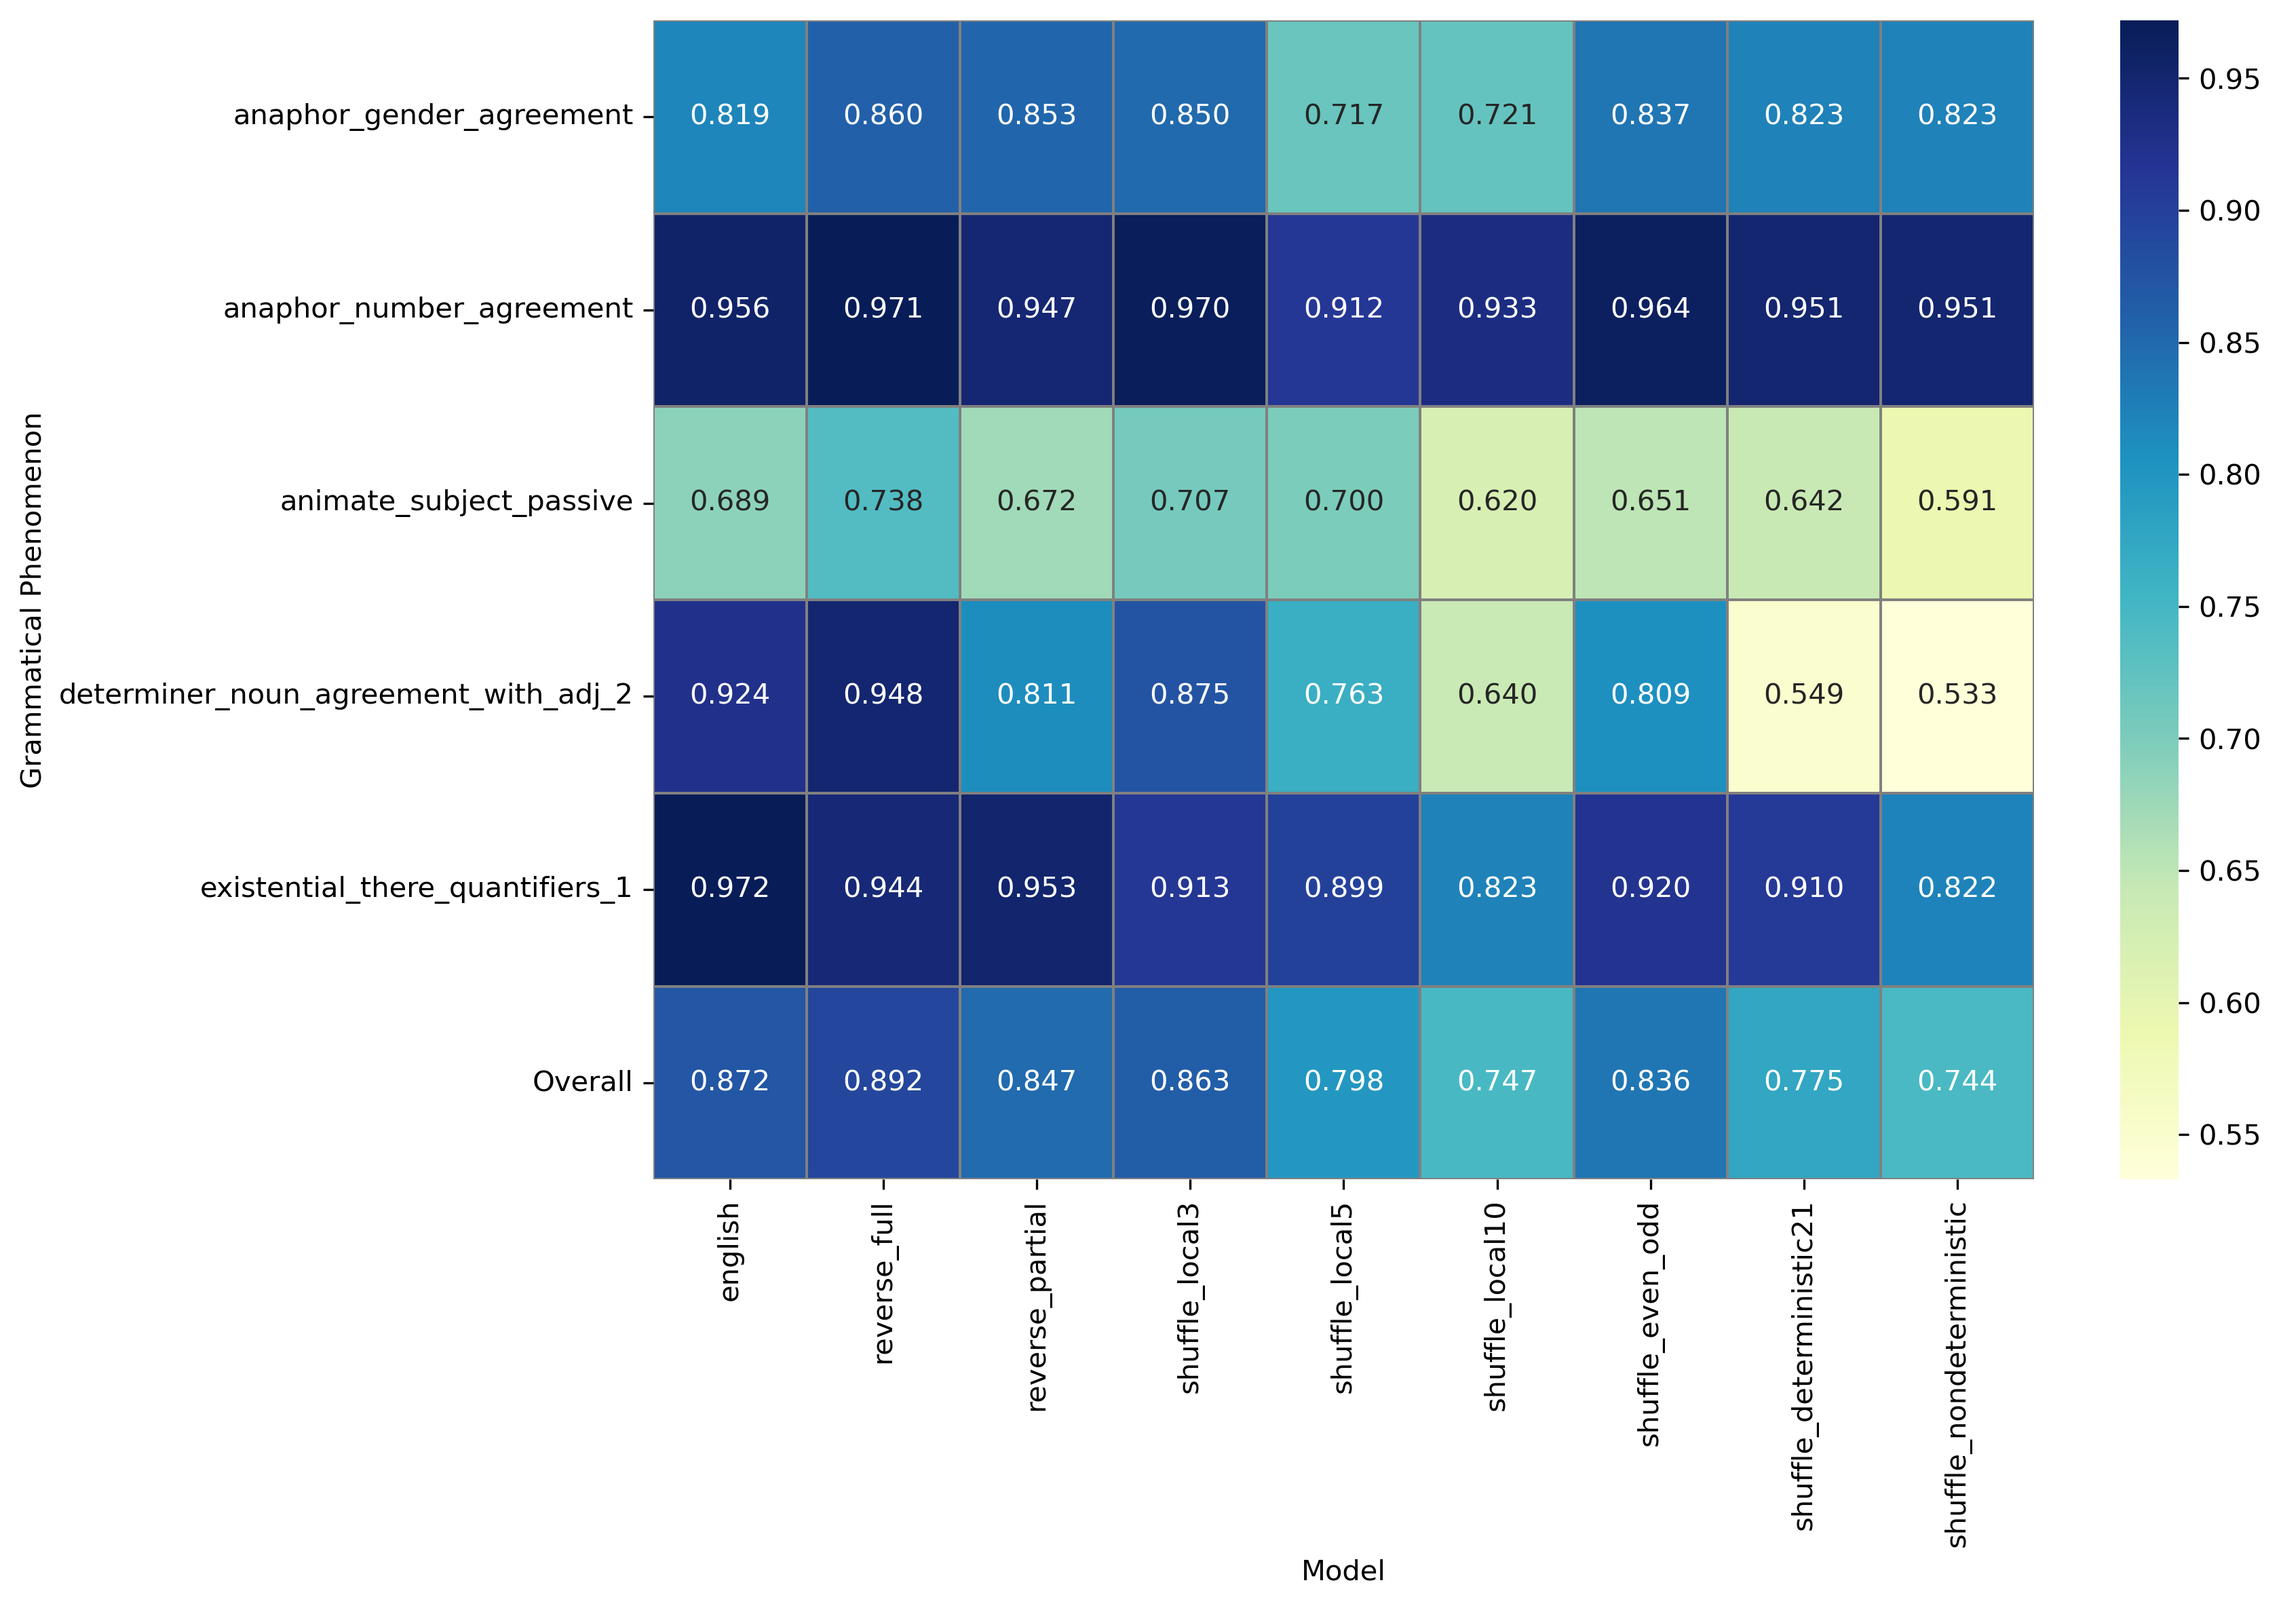
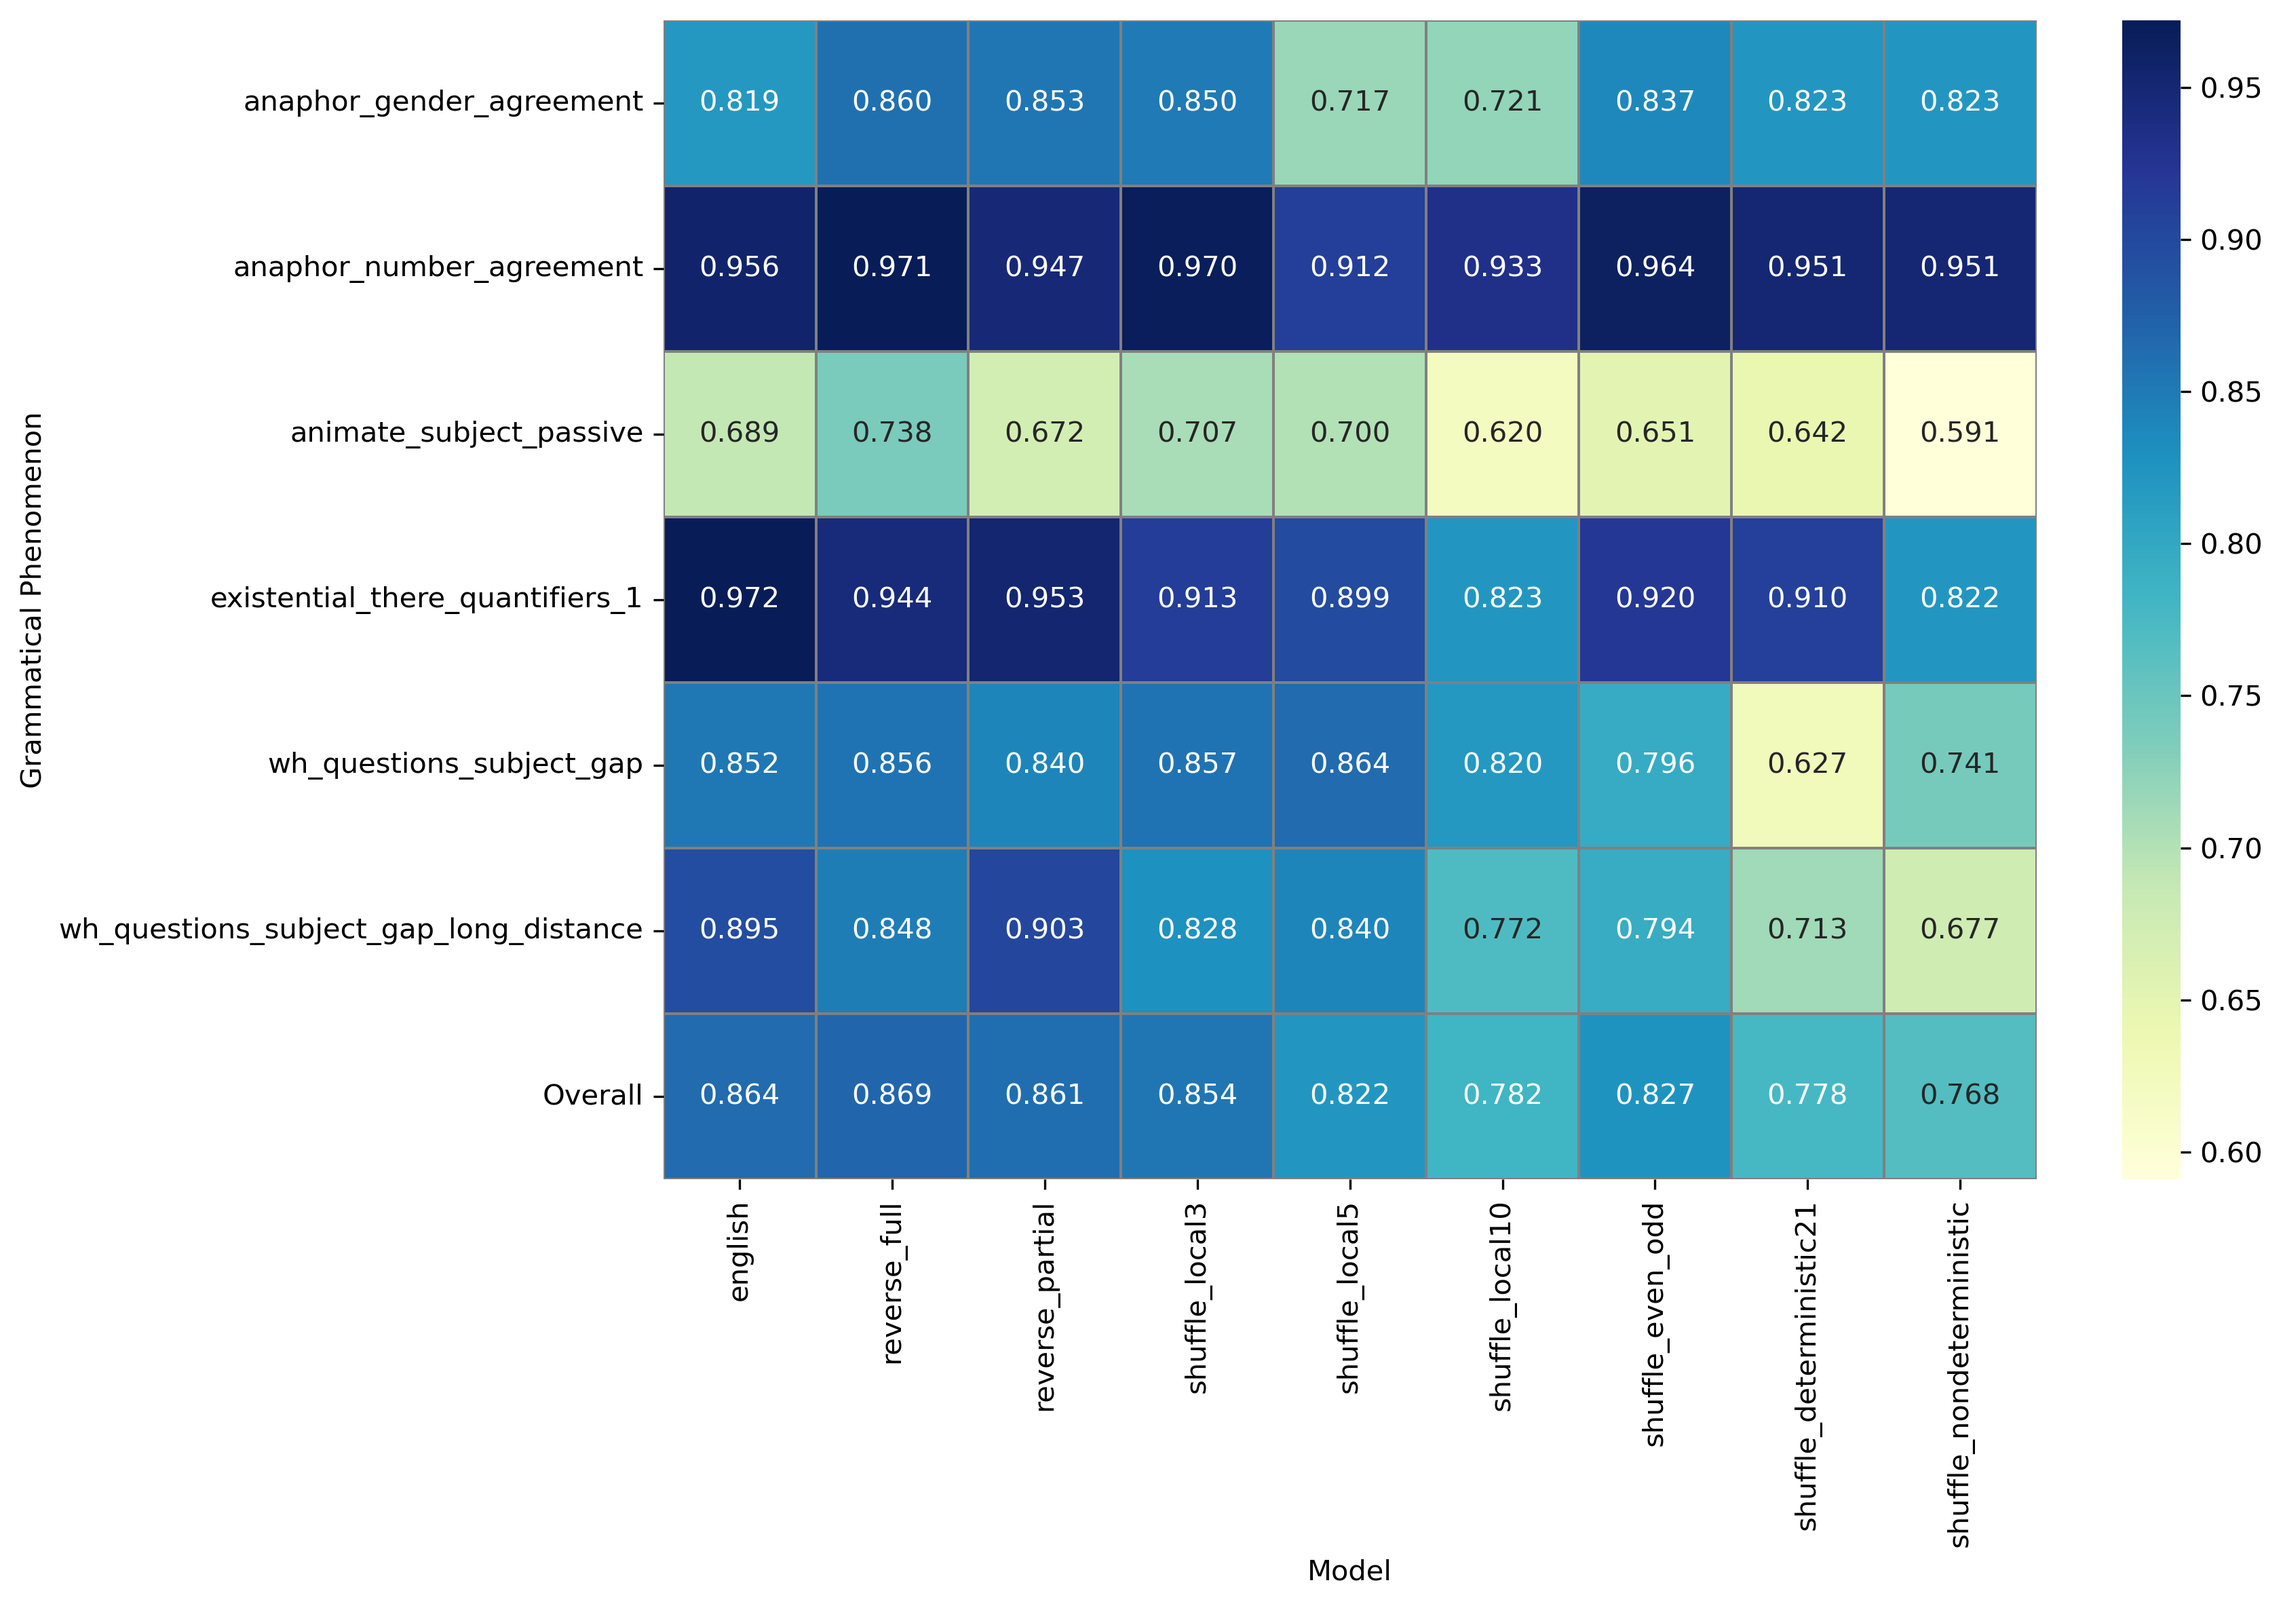
Add m_local_ranking and model_ordering_local

diff --git a/analysis/performance_statistics.py b/analysis/performance_statistics.py
@@ -3,6 +3,7 @@ import matplotlib.pyplot as plt
 import seaborn as sns
 import os
 from typing import List, Optional
+import re
 
 # Edit this list to change which phenomena are included in the table
 PHENOMENA_LIST = [
@@ -82,6 +83,112 @@ MODEL_ORDER = [
     "shuffle_deterministic21",
     "shuffle_nondeterministic",
 ]
+
+def plot_ordering(
+    labels: List[str],
+    values: List[float],
+    output_path: str = "analysis/output/ordering.png",
+    title: str = "Model Performance Ranking",
+    reverse: bool = True,
+):
+    """
+    Generates a PNG image showing an ordered list of labels and their values.
+
+    The plot width scales dynamically with the length of the labels to prevent
+    text overflow. Text is left-aligned for readability.
+
+    Args:
+        labels (List[str]): A list of strings to be displayed (e.g., model names).
+        values (List[float]): A list of corresponding numerical values (e.g., scores).
+        output_path (str): The path where the generated image will be saved.
+        title (str): The title for the plot.
+    """
+    if not labels or len(labels) != len(values):
+        print("Error: Labels and values must be non-empty and have the same length.")
+        return
+
+    sorted_data = sorted(zip(labels, values), key=lambda item: item[1], reverse=reverse)
+    sorted_labels, sorted_values = zip(*sorted_data)
+
+    # Determine figure width dynamically based on the longest label
+    if sorted_labels:
+        max_len = max(len(label) for label in sorted_labels)
+        # Base width of 4 inches + 0.12 inches per character for the label
+        fig_width = 4 + max_len * 0.06
+    else:
+        fig_width = 5 # Default width if there are no labels
+
+    fig, ax = plt.subplots(figsize=(fig_width, 0.6 * len(sorted_labels)))
+    
+    background = [[1] for _ in sorted_labels]
+    ax.imshow(background, cmap="Blues", aspect="auto", vmin=0, vmax=1.5, extent=(-0.5, 0.5, len(sorted_labels)-0.5, -0.5))
+
+    for i, (label, value) in enumerate(zip(sorted_labels, sorted_values)):
+        rank = i + 1
+        # Add padding to keep text from the edges
+        text = f"  {rank}. {label}"
+        
+        # Display the rank and label, now LEFT-aligned
+        ax.text(-0.5, i, text, va='center', ha='left', color='white', fontsize=14, fontweight='bold')
+        
+        # Display the formatted score, RIGHT-aligned
+        ax.text(0.5, i, f"{value:.3f}  ", va='center', ha='right', color='white', fontsize=12, alpha=0.8)
+
+    ax.spines[:].set_visible(False)
+    ax.set_xticks([])
+    ax.set_yticks([])
+    ax.set_title(title, fontsize=16, fontweight='bold', pad=20)
+    
+    plt.tight_layout()
+    
+    os.makedirs(os.path.dirname(output_path), exist_ok=True)
+    plt.savefig(output_path, dpi=200, bbox_inches='tight')
+    plt.close()
+    print(f"Ordering plot saved to {output_path}")
+
+
+def plot_model_ordering_from_csv(
+    phenomena: List[str],
+    skip_models: Optional[List[str]] = None,
+    csv_path: str = "experiments/output/v2/results.csv",
+    output_path: str = "analysis/output/model_ordering.png"
+):
+    """
+    Calculates overall model performance on specific phenomena and plots their ordering.
+
+    This function reads a CSV file, filters the data by the given phenomena, calculates
+    the mean accuracy for each model (while omitting specified models), and then
+    calls plot_ordering to generate the final visualization.
+
+    Args:
+        phenomena (List[str]): A list of grammatical phenomena to include.
+        skip_models (Optional[List[str]]): A list of model names to exclude from the plot.
+        csv_path (str): Path to the input results CSV file.
+        output_path (str): The path to save the generated ordering plot.
+    """
+    if skip_models is None:
+        skip_models = []
+        
+    df = pd.read_csv(csv_path)
+    
+    # Filter the DataFrame to include only the desired phenomena
+    df_filtered = df[df["grammatical phenomenon"].isin(phenomena)]
+    if df_filtered.empty:
+        print(f"Warning: No data found for the specified phenomena.")
+        return
+        
+    # Exclude any models specified in the skip_models list
+    df_filtered = df_filtered[~df_filtered["model name"].isin(skip_models)]
+    
+    # Calculate the overall performance (mean accuracy) for each model
+    performance = df_filtered.groupby("model name")["accuracy"].mean()
+    
+    # Extract the model names and their scores
+    labels = performance.index.tolist()
+    values = performance.values.tolist()
+    
+    # Call the plotting function to create and save the image
+    plot_ordering(labels=labels, values=values, output_path=output_path)
 
 def plot_phenomenon_group_counts(
     csv_path: str = "experiments/output/v2/results.csv",
@@ -250,30 +357,114 @@ def percent_non_english_best_model(csv_path="experiments/output/v2/results.csv")
     print(f"\nOut of {total} phenomena, {non_english_count} ({percent:.1f}%) had a best model that was NOT 'english'.")
     return percent
 
+def plot_ranking_comparison(
+    ranking1: List[str],
+    ranking2: List[str],
+    ranking1_label: str = "Ranking A",
+    ranking2_label: str = "Ranking B",
+    output_path: str = "analysis/output/ranking_comparison.png",
+    title: str = "Comparison of Rankings"
+):
+    """
+    Creates a slope graph to compare two different rankings of the same items.
+
+    Args:
+        ranking1 (List[str]): An ordered list of item names for the first ranking.
+        ranking2 (List[str]): An ordered list of item names for the second ranking.
+        ranking1_label (str): The name of the first ranking (for the column title).
+        ranking2_label (str): The name of the second ranking.
+        output_path (str): The path to save the generated image.
+        title (str): The overall title for the plot.
+    """
+    # Create rank mappings for efficient lookup
+    rank1_map = {item: i for i, item in enumerate(ranking1)}
+    rank2_map = {item: i for i, item in enumerate(ranking2)}
+    all_items = sorted(list(set(ranking1) | set(ranking2)))
+    num_items = len(all_items)
+
+    fig, ax = plt.subplots(figsize=(8, max(5, 0.45 * num_items)))
+
+    # X-coordinates for the two rankings
+    x1, x2 = 0, 1
+
+    # Plot lines and labels for each item
+    for item in all_items:
+        # Items must be in both rankings to be compared
+        if item not in rank1_map or item not in rank2_map:
+            continue
+            
+        y1 = rank1_map[item]
+        y2 = rank2_map[item]
+        
+        # Determine color based on change in rank
+        if y1 > y2: color = 'green'    # Rank improved (e.g., 5th -> 2nd)
+        elif y1 < y2: color = 'red'    # Rank worsened (e.g., 2nd -> 5th)
+        else: color = 'darkgray'
+        
+        # Plot the connecting line
+        ax.plot([x1, x2], [y1, y2], color=color, marker='o', markersize=8, alpha=0.7, linewidth=2)
+
+        # Add text labels next to the points
+        ax.text(x1 - 0.03, y1, f"{item} ({y1+1})", ha='right', va='center', fontsize=12)
+        ax.text(x2 + 0.03, y2, f"({y2+1}) {item}", ha='left', va='center', fontsize=12)
+
+    # Set column headers
+    ax.text(x1, -0.5, ranking1_label, ha='center', va='bottom', fontsize=14, fontweight='bold')
+    ax.text(x2, -0.5, ranking2_label, ha='center', va='bottom', fontsize=14, fontweight='bold')
+
+    # --- Final plot styling ---
+    ax.set_title(title, fontsize=16, fontweight='bold', pad=30)
+    # Invert y-axis so Rank 1 is at the top
+    ax.invert_yaxis()
+    # Add padding to the y-axis
+    ax.set_ylim(max(len(ranking1), len(ranking2)) - 0.5, -1)
+    # Remove all axis ticks and spines for a cleaner look
+    ax.set_xticks([])
+    ax.set_yticks([])
+    ax.spines[:].set_visible(False)
+
+    plt.tight_layout()
+    os.makedirs(os.path.dirname(output_path), exist_ok=True)
+    plt.savefig(output_path, dpi=200, bbox_inches='tight')
+    plt.close()
+    print(f"Ranking comparison plot saved to {output_path}")
+    
 def main():
-    # percent_non_english_best_model()
-    # save_performance_table_image(PHENOMENA_LIST, output_filename="performance_table_overall.png")
-    # save_performance_table_image([
-    #         "anaphor_gender_agreement",
-    #         "anaphor_number_agreement",
-    #         "animate_subject_passive",
-    #         "determiner_noun_agreement_with_adj_2",
-    #         "existential_there_quantifiers_1"
-    #     ], output_filename="performance_table_local.png")
-    # save_performance_table_image([
-    #     "adjunct_island",
-    #     "distractor_agreement_relative_clause",
-    #     "ellipsis_n_bar_1",
-    #     "principle_A_c_command",
-    #     "wh_questions_object_gap",
-    #     "wh_questions_object_gap_long_distance",
-    # ], output_filename="performance_table_structural.png")
-    # save_performance_table_image([
-    #     "wh_questions_subject_gap",
-    #     "wh_questions_subject_gap_long_distance",
-    # ], output_filename="performance_table_subject.png")
-    # plot_model_group_performance_table()
-    plot_phenomenon_group_counts()
+    """
+    Main function to generate plots.
+    This example demonstrates how to use the new ordering plot functions.
+    """
+    # print("\n--- Generating plot for overall model ordering (skipping some models) ---")
+    # plot_model_ordering_from_csv(
+    #     phenomena=PHENOMENA_LIST,
+    #     skip_models=["reverse_partial", "shuffle_local3"],
+    #     output_path="analysis/output/model_ordering_overall_skipped.png"
+    # )
+
+    print("\n--- Generating plot for local ordering phenomena ---")
+    local_ordering_phenomena = [
+        "anaphor_gender_agreement", "anaphor_number_agreement",
+        "animate_subject_passive", "existential_there_quantifiers_1",
+        "wh_questions_subject_gap", "wh_questions_subject_gap_long_distance",
+    ]
+    plot_model_ordering_from_csv(
+        phenomena=local_ordering_phenomena,
+        skip_models=["reverse_partial", "shuffle_nondeterministic"],
+        output_path="analysis/output/model_ordering_local.png"
+    )
+
+    print("\n--- Generating plot from a custom list of models and scores ---")
+    # Example of using the second function directly with custom data
+    custom_labels = ["Base (english)", "Reverse (reverse_full)", "EvenOddShuffle (shuffle_even_odd)", "LocalShuffle(K=3) (shuffle_local3)", "LocalShuffle(K=5) (shuffle_local5)", "LocalShuffle(K=7)", "DeterministicShuffle (shuffle_deterministic21)"]
+    custom_values = [2.92, 2.98, 3.76, 3.68, 3.88, 4.06, 4.60] # Note: The function will sort these automatically
+    plot_ordering(
+        labels=custom_labels,
+        values=custom_values,
+        output_path="analysis/output/m_local_ranking.png",
+        title="m-local Ranking",
+        reverse=False
+    )
+
 
 if __name__ == "__main__":
     main()
